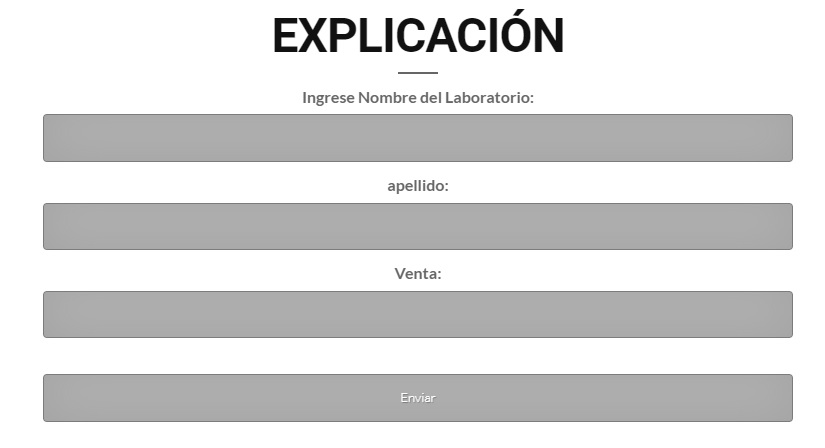
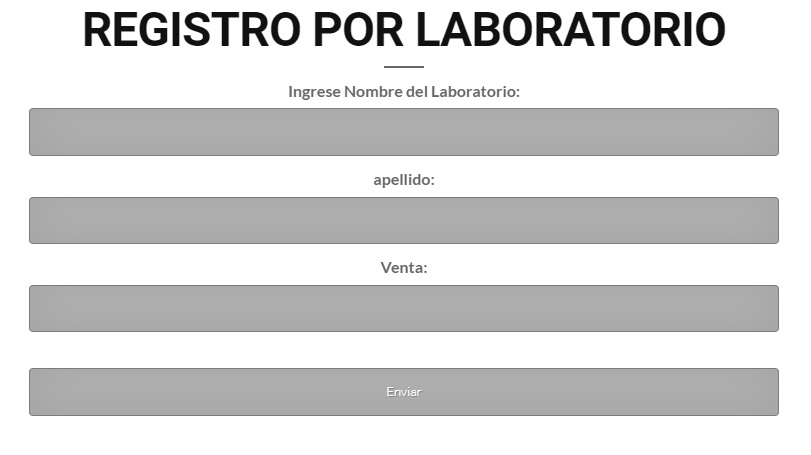
Final

Changed region(s): [[0.0308, 0.0, 0.9864, 0.9688]]

diff --git a/templates/index.html b/templates/index.html
@@ -225,7 +225,7 @@
 				<div class="col-lg-8 col-lg-offset-2">
 					<div class="wow flipInY" data-wow-offset="0" data-wow-delay="0.4s">
 						<div class="section-heading text-center">
-							<h2 class="h-bold">Registro de Ventas</h2>
+							<h2 class="h-bold">Programación Orientada a Objetos</h2>
 							<div class="divider-header"></div>
 							<p>La ventana de la programación orientada a objetos es poder encapsular las funciones y
 								las variables que estén relacionadas en un esquema controlado y aislado del resto del

diff --git a/templates/registro.html b/templates/registro.html
@@ -73,7 +73,7 @@
 			<div class="col-lg-8 col-lg-offset-2">
 			  <div class="wow flipInY" data-wow-offset="0" data-wow-delay="0.4s">
 				<div class="section-heading text-center">
-				  <h2 class="h-bold">Explicación</h2>
+				  <h2 class="h-bold">Registro por Laboratorio</h2>
 				  <div class="divider-header"></div>
 				  <form method = "POST" action="{{url_for('registro')}}">
 					 <label>Ingrese Nombre del Laboratorio:</label><br>

diff --git a/utils.py b/utils.py
@@ -19,7 +19,6 @@ import io
 import base64
 
 import matplotlib
-# matplotlib.use('Agg')
 
 
 def graficar(x, y):

diff --git a/README.md b/README.md
@@ -18,7 +18,7 @@ import random
 Instalar librería en archivo (registro.py )🔧
 
 import csv
-Comenzando 💻
+**Comenzando 💻**\
 
 ![imagen](/img/Navegador.jpg)
 
@@ -52,3 +52,6 @@ Licencia📄
 Este proyecto está bajo la Licencia (27.794.377)
 
 Ver el archivo LICENSE.md para detalles
+
+**Ejemplos que el profesor mostrará en clase**\
+ejemplos_clase/
